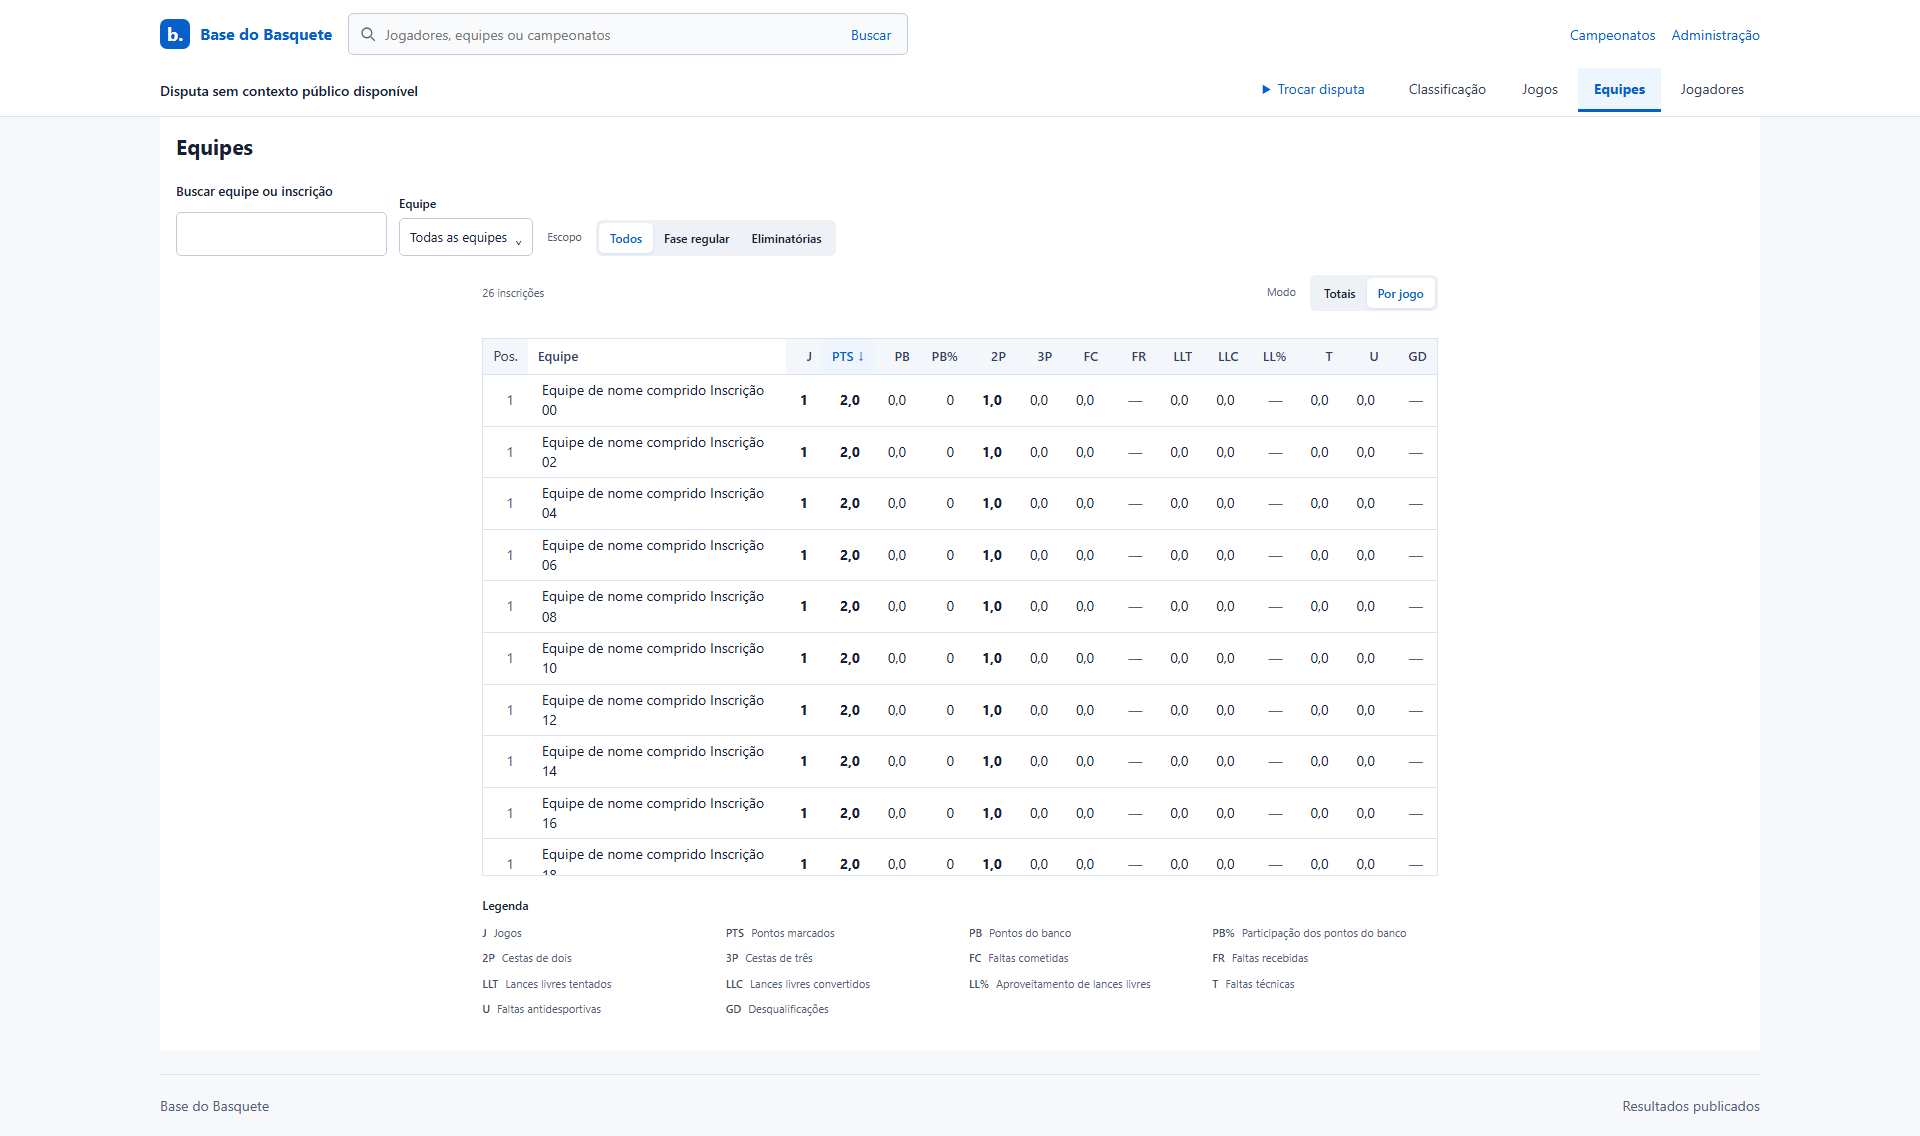
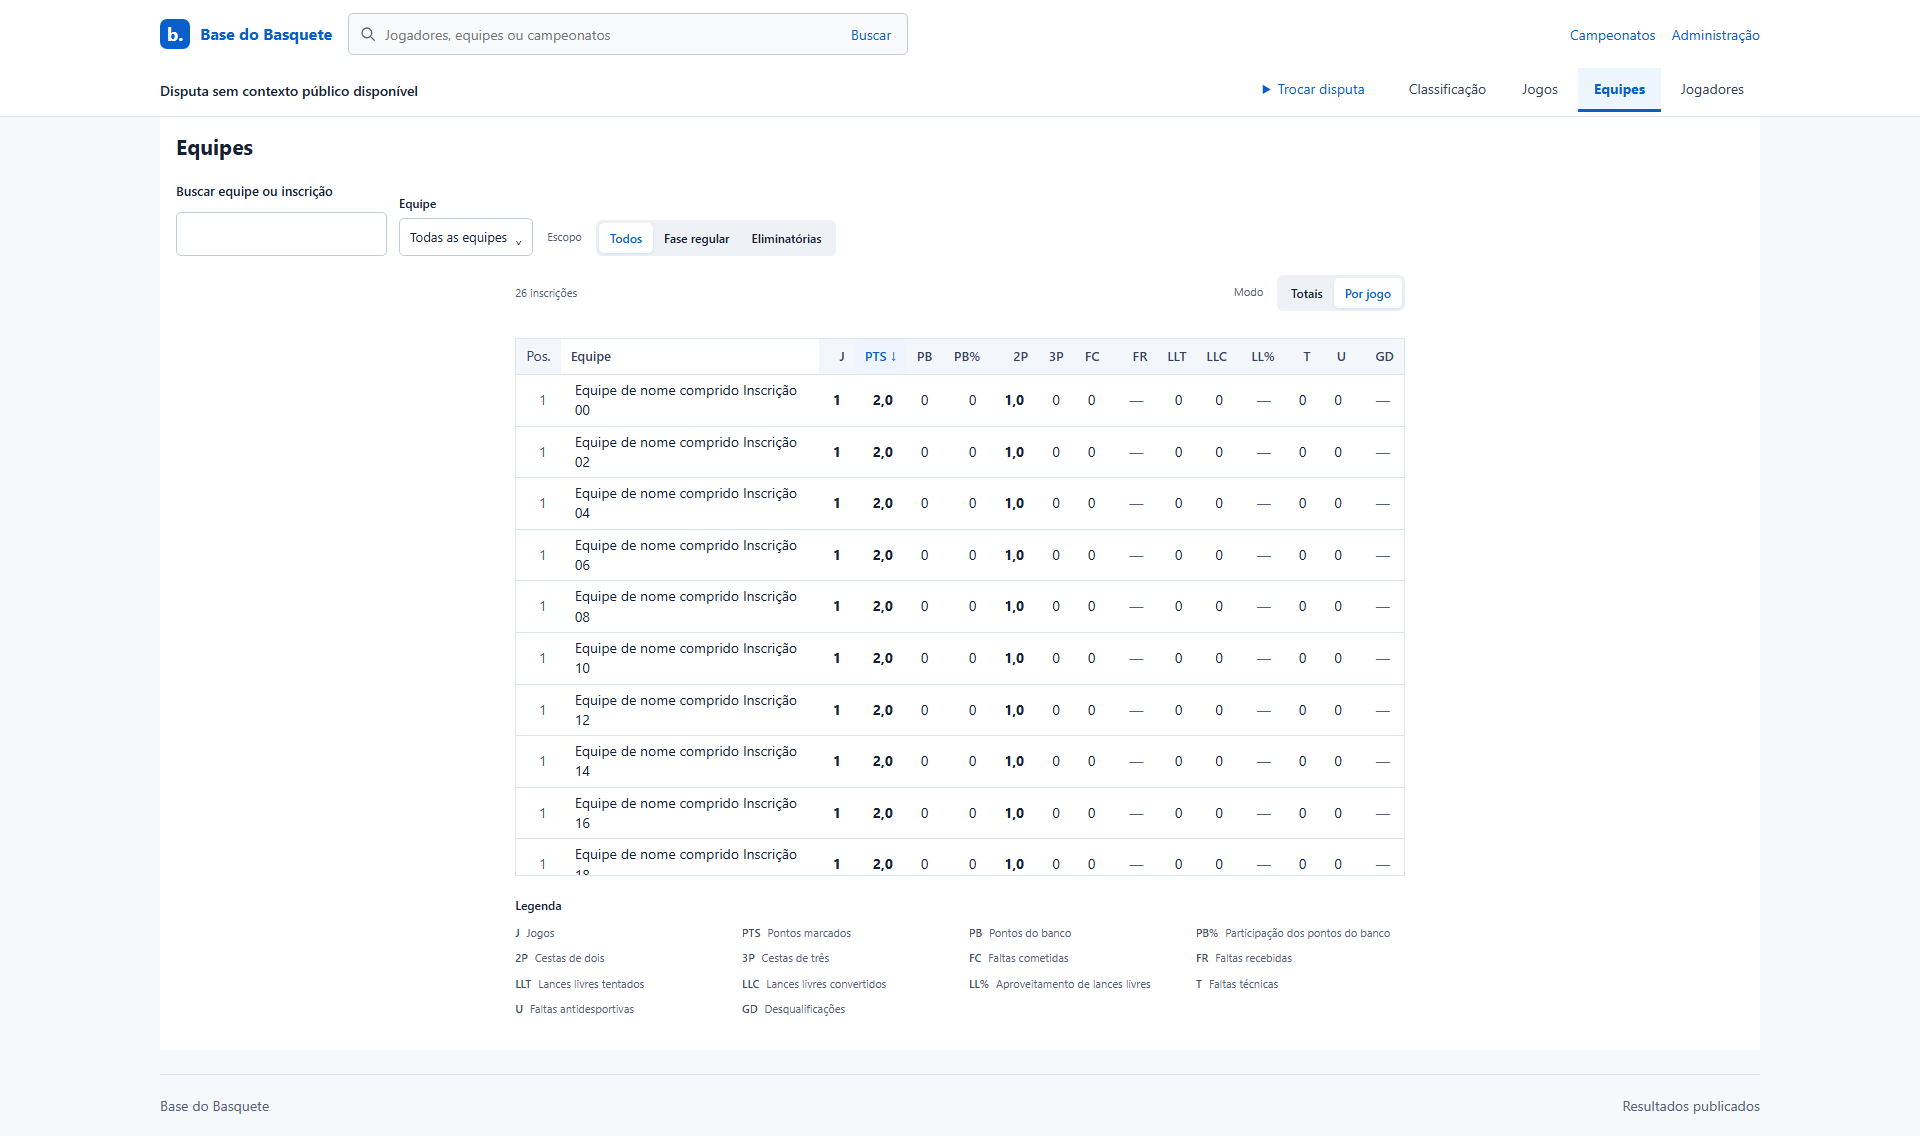
test: conclui revisão de Equipes em WebKit e documenta evidências

diff --git a/tests/team-refinement.spec.ts b/tests/team-refinement.spec.ts
@@ -147,6 +147,10 @@ test("Equipes: largura intrínseca, sticky, barra superior e bordas", async ({
       () => document.documentElement.scrollWidth <= innerWidth,
     ),
   ).toBe(true);
+  await page.screenshot({
+    path: `.preview-artifacts/equipes-zoom200-${info.project.name}.png`,
+    fullPage: true,
+  });
   await page.evaluate(() => {
     document.documentElement.style.zoom = "";
     document.documentElement.style.fontSize = "200%";
@@ -156,6 +160,10 @@ test("Equipes: largura intrínseca, sticky, barra superior e bordas", async ({
       () => document.documentElement.scrollWidth <= innerWidth,
     ),
   ).toBe(true);
+  await page.screenshot({
+    path: `.preview-artifacts/equipes-text200-${info.project.name}.png`,
+    fullPage: true,
+  });
 });
 
 test("Equipes: consulta explícita e retorno do perfil conservam seleção e rolagem", async ({
@@ -316,7 +324,8 @@ test("Equipes: armazenamento indisponível preserva consultas curtas e foco", as
   const table = page.getByRole("table", { name: "Estatísticas das equipes" });
   await expect(table.locator("tbody tr")).toHaveCount(2);
   const totals = page.getByRole("button", { name: "Totais", exact: true });
-  await totals.click();
+  await totals.focus();
+  await page.keyboard.press("Enter");
   await expect(totals).toBeFocused();
   await expect(page).toHaveURL(/mode=total/);
   await expect(page.getByRole("alert")).toHaveCount(0);

diff --git a/docs/PROGRESSO.md b/docs/PROGRESSO.md
@@ -1,29 +1,23 @@
 # Progresso atual
 
-Atualizado05/11/2026. Unidade ativa: **Equipes conforme Jogadores**, WIP na branch `codex/equipes-refinamento`, base inicial `76b90da`; worktree `C:/Users/12405304716/.codex/worktrees/equipes-refinamento/Base do Basquete-v1`. Último SHA material WIP publicado: `2853a653706b9ca18302a6a8b202ea39bd9d4acb` (branch remota confirmada, checkout limpo). Recuperar HEAD documental por Git. Sem PR criada, CI remota, integração ou deploy desta unidade até aqui.
+Atualizado05/11/2026. **Equipes conforme Jogadores**, branch `codex/equipes-refinamento`, [PR63](https://github.com/renato-lucindo/base-do-basquete-next/pull/63) única para main. Base inicial76b90da; main6d37e29 incorporada por merge explícito em6b41ac1. Último materialccc5de5; recuperar HEAD documental por Git. Checkout isolado `C:/Users/12405304716/.codex/worktrees/equipes-refinamento/Base do Basquete-v1`.
 
-## Implementação e evidências
+## Implementação e provas
 
-Contrato optativo pageSize=all/v2 separado do legado20, PB/PB%, médias uniformes/precisão integral, opções completas/hasBoxscore, seleção por registrationId, referência local e POST de consulta extensa. UI própria: busca com debounce/cancelamento, segmentados, tabela integral/legenda/máximos e CSS escopado de súmula. Jogadores, perfil, paginação/cálculos legados e ScrollableTable global preservados. [Spec/plano](superpowers/plans/2026-11-05-equipes-refinamento.md) e [relatório](design/VALIDACAO-EQUIPES-REFINAMENTO.md).
+Contrato pageSize=all/v2 separado do legado20, PB/PB%, médias uniformes/precisão integral, opções/hasBoxscore completos, seleção porregistrationId/referência local/POST de consulta extensa. UI com busca/debounce/cancelamento, segmentados, tabela integral/legenda/máximos, CSS só súmula. Perfil/Jogadores/paginação/cálculos legados e ScrollableTable global preservados. Falha de storage mantém escolha anterior e aviso; consultas curtas independem do storage. Zero conhecido apresenta0. [Spec/plano](superpowers/plans/2026-11-05-equipes-refinamento.md), [relatório/capturas](design/VALIDACAO-EQUIPES-REFINAMENTO.md).
 
-Gate `npm run gate` **exit0** (.equipes-gate.log):715unitários/149arquivos, política11, transporte11, banco descartável13, WorkerHTTP30, PDF1, lint/formato/tipos/build/fronteira/segredos. A parte unitária antecede a última correção pequena de identidade completa/validação/CSSmobile; focais posteriores48PASS e13testes sobrepostos de precisão/PB/fontes mistasPASS. Não repetir o gate por docs; conferir focais finais pertinentes e CI da composição.
+Gate consolidado local exit0:715unitários/149arquivos, política11, transporte11, banco descartável13, WorkerHTTP30, PDF1, lint/formato/tipos/build/fronteira/segredos (.equipes-gate.log). Ajustes finais focalmente conferidos:48unitáriosPASS,20ChromiumPASS+2de armazenamento cheioPASS, WebKitWindows12PASS+4finais de foco/bordasPASS (recortes sobrepostos). CI final da composição ainda necessária. CI inicial42130603266/6b41ac1 em andamento; não presumir sucesso. Logs de ENOSPC/temporários e expectativas antigas de foco Safari preservados no relatório, com correção e repetição sequencial aprovadas. Sem skips/retries/timeouts novos.
 
-Chromium ampliado56PASS/2falhasENOSPC ao gravar traces; os2afetados passaram sequencialmente (.equipes-disk-repeat.log). WebKitWindows2PASS (.equipes-webkit.log), sem confirmar overscroll nativo nessa plataforma nem celular físico. Capturas renovadas em docs/design/evidencias/equipes-refinamento. DiscoC quase cheio (~130MB); ENOENT temporário também desapareceu na repetição sequencial. Removido apenas map PDF gerado nesta execução; preservar arquivos alheios. Revisão autoral, sem parecer independente.
+Revisão autoral/ui-ux-pro-max/web-design-guidelines atualizada; sem alegar parecer independente ou celular físico. WebKitWindows não prova overscroll nativo; CI macOS inclui14cenários de Equipes. DiscoC cerca450MB livres, execuções locais sequenciais/traceoff; arquivos humanos/alheios preservados.
 
-Consulta histórica somente leitura:25jogos/50lados,34sem coletivo novo,15T/mínimoGD4,PBdisponível50. [Quadro por jogo/equipe](evidencias/2026-11-05-equipes-historico.md). Nenhum DDL/DML/rascunho na API/republicação. Originais congelados da versão publicada serviram apenas ao diagnóstico.
+Diagnóstico somente leitura:25jogos/50lados,34sem coletivo novo,15T/mínimoGD4,PBdisponível50. [Quadro](evidencias/2026-11-05-equipes-historico.md). Originais congelados publicados apenas diagnóstico; sem rascunhos na API, DDL/DML ou republicação.
 
-## Git e serviços
+## Serviços, continuidade e próximo passo
 
-Origin/main avançou externamente para `6d37e29` (PR60 documental); incorporar main vigente por merge explícito antes da entrega. PR61 é outra unidade, com retomada para o mesmo horário e alvoUIUX: conferir estado real/coordenação antes de publicar, sem empilhar branches nem substituir fonte mais nova por build antigo. Checkout humano sync/trabalho-casa e CONTRIBUTING/skills locais alheios, outros worktrees e automações preservados.
+UIUX observado por API:deployment79cd9d59-cc65-4437-b44f-55a1f2f859b5/version82ee666f-3ebe-4d0c-b931-0fe020b2c8d3/source76b90da. Principal00dffb6b-1d5c-4433-9214-768013ed6277/version139410ce-a8d6-4710-9b94-e1b1222cd3dc. Config/Access/segredos/banco preservados. ConfigUIUX existente em `C:/Users/12405304716/.codex/worktrees/reforma-uiux/.preview-artifacts/uiux-preview/wrangler.json`. Sem deploy desta unidade até aqui.
 
-Última leitura remotaUIUX:deployment `79cd9d59-cc65-4437-b44f-55a1f2f859b5`, versão `82ee666f-3ebe-4d0c-b931-0fe020b2c8d3`, source PR59/76b90da. Principal deployment `00dffb6b-1d5c-4433-9214-768013ed6277`, versão `139410ce-a8d6-4710-9b94-e1b1222cd3dc`. Nenhuma alteração em serviços nesta unidade. ConfigUIUX existente em `C:/Users/12405304716/.codex/worktrees/reforma-uiux/.preview-artifacts/uiux-preview/wrangler.json`; não usar uploader canônico.
+PR61 independente permanece draft/idle, CI42128700378/ab3c461SUCCESS; não integrada por este agente. Conferir main/serviço novamente antes do merge/deploy; não empilhar61 nem publicar build antigo sobre mais novo. Checkout humano sync/trabalho-casa/CONTRIBUTING/skills locais e outrosworktrees preservados.
 
-## Pausa e próximo passo
+Retomada manual autorizada em05/11, cota inicial99%5h/22%semanal. Automação `retomar-refinamento-de-equipes` permaneceACTIVE para06/11 00:04:43 America/Sao_Paulo; pausar ao concluir, sem duplicatas/créditos/resets. Gatilho15%real conforme CONTRIBUTING.
 
-Cota real **13%5h/30%semanal**, reset `1793934163`. Retomada oficial `retomar-refinamento-de-equipes` **ACTIVE**, confirmada por view e arquivo da automação para este chat: **06/11/2026 às00:04:43 America/Sao_Paulo** (03:04:43UTC), reset+2min. Não usar créditos/resetmanual. Não iniciar outro gate nesta janela.
-
-Ao retomar:medir cota; conferir Git/PRs/CI/main/serviço; concluir revisão e focais pendentes; uma única PR com CI; merge commit e CI integrada; build fresco limpo e deploy exclusivamente base-do-basquete-next-uiux, seguido de smoke/fonte/configuração. Autorizações específicas constam no pedido; não inferir deployprincipal, Access/segredos/DB/DML. [Checkpoint anterior](../historico/progresso/2026-11-05-antes-equipes-refinamento.md).
-
-## Retomada em05/11/2026
-
-Cota real99%5h/22%semanal no início da retomada. Main6d37e29 incorporada por merge explícito; contexto documental da PR60 [arquivado](../historico/progresso/2026-11-05-main-pr60-na-retomada-equipes.md). Correção final ccc5de5: consultas curtas não dependem do armazenamento; seleção extensa com falha de storage conserva escolha anterior e alerta, zero comprovado aparece0. Focais48unitáriosPASS;20browsersPASS mais2de armazenamento cheioPASS após corrigir o teste para clicar sem exigir desmarcação rejeitada. Tipos/lint/formato/diffPASS; WebKit completo focal/CI remota pendentes. PR61 está separada e idle, CI42128700378SUCCESS/ab3c461, sem integração por este agente. Nenhum deploy ou dado alterado.
+Próximo:publicar último teste/documentação na mesma PR63, aguardar CI completa, revisar checks/conversas/diff, merge commit autorizado e CI integrada. Depois build fresco limpo do SHAintegrado e deploy exclusivamente base-do-basquete-next-uiux com smoke/fonte/configuração. Nenhum deployprincipal/Access/segredo/DDL/DML ou republicação autorizados por inferência. [Checkpoint anterior](../historico/progresso/2026-11-05-equipes-apos-retomada.md).

diff --git a/historico/progresso/2026-11-05-equipes-apos-retomada.md b/historico/progresso/2026-11-05-equipes-apos-retomada.md
@@ -1,0 +1,29 @@
+# Progresso atual
+
+Atualizado05/11/2026. Unidade ativa: **Equipes conforme Jogadores**, WIP na branch `codex/equipes-refinamento`, base inicial `76b90da`; worktree `C:/Users/12405304716/.codex/worktrees/equipes-refinamento/Base do Basquete-v1`. Último SHA material WIP publicado: `2853a653706b9ca18302a6a8b202ea39bd9d4acb` (branch remota confirmada, checkout limpo). Recuperar HEAD documental por Git. Sem PR criada, CI remota, integração ou deploy desta unidade até aqui.
+
+## Implementação e evidências
+
+Contrato optativo pageSize=all/v2 separado do legado20, PB/PB%, médias uniformes/precisão integral, opções completas/hasBoxscore, seleção por registrationId, referência local e POST de consulta extensa. UI própria: busca com debounce/cancelamento, segmentados, tabela integral/legenda/máximos e CSS escopado de súmula. Jogadores, perfil, paginação/cálculos legados e ScrollableTable global preservados. [Spec/plano](superpowers/plans/2026-11-05-equipes-refinamento.md) e [relatório](design/VALIDACAO-EQUIPES-REFINAMENTO.md).
+
+Gate `npm run gate` **exit0** (.equipes-gate.log):715unitários/149arquivos, política11, transporte11, banco descartável13, WorkerHTTP30, PDF1, lint/formato/tipos/build/fronteira/segredos. A parte unitária antecede a última correção pequena de identidade completa/validação/CSSmobile; focais posteriores48PASS e13testes sobrepostos de precisão/PB/fontes mistasPASS. Não repetir o gate por docs; conferir focais finais pertinentes e CI da composição.
+
+Chromium ampliado56PASS/2falhasENOSPC ao gravar traces; os2afetados passaram sequencialmente (.equipes-disk-repeat.log). WebKitWindows2PASS (.equipes-webkit.log), sem confirmar overscroll nativo nessa plataforma nem celular físico. Capturas renovadas em docs/design/evidencias/equipes-refinamento. DiscoC quase cheio (~130MB); ENOENT temporário também desapareceu na repetição sequencial. Removido apenas map PDF gerado nesta execução; preservar arquivos alheios. Revisão autoral, sem parecer independente.
+
+Consulta histórica somente leitura:25jogos/50lados,34sem coletivo novo,15T/mínimoGD4,PBdisponível50. [Quadro por jogo/equipe](evidencias/2026-11-05-equipes-historico.md). Nenhum DDL/DML/rascunho na API/republicação. Originais congelados da versão publicada serviram apenas ao diagnóstico.
+
+## Git e serviços
+
+Origin/main avançou externamente para `6d37e29` (PR60 documental); incorporar main vigente por merge explícito antes da entrega. PR61 é outra unidade, com retomada para o mesmo horário e alvoUIUX: conferir estado real/coordenação antes de publicar, sem empilhar branches nem substituir fonte mais nova por build antigo. Checkout humano sync/trabalho-casa e CONTRIBUTING/skills locais alheios, outros worktrees e automações preservados.
+
+Última leitura remotaUIUX:deployment `79cd9d59-cc65-4437-b44f-55a1f2f859b5`, versão `82ee666f-3ebe-4d0c-b931-0fe020b2c8d3`, source PR59/76b90da. Principal deployment `00dffb6b-1d5c-4433-9214-768013ed6277`, versão `139410ce-a8d6-4710-9b94-e1b1222cd3dc`. Nenhuma alteração em serviços nesta unidade. ConfigUIUX existente em `C:/Users/12405304716/.codex/worktrees/reforma-uiux/.preview-artifacts/uiux-preview/wrangler.json`; não usar uploader canônico.
+
+## Pausa e próximo passo
+
+Cota real **13%5h/30%semanal**, reset `1793934163`. Retomada oficial `retomar-refinamento-de-equipes` **ACTIVE**, confirmada por view e arquivo da automação para este chat: **06/11/2026 às00:04:43 America/Sao_Paulo** (03:04:43UTC), reset+2min. Não usar créditos/resetmanual. Não iniciar outro gate nesta janela.
+
+Ao retomar:medir cota; conferir Git/PRs/CI/main/serviço; concluir revisão e focais pendentes; uma única PR com CI; merge commit e CI integrada; build fresco limpo e deploy exclusivamente base-do-basquete-next-uiux, seguido de smoke/fonte/configuração. Autorizações específicas constam no pedido; não inferir deployprincipal, Access/segredos/DB/DML. [Checkpoint anterior](../historico/progresso/2026-11-05-antes-equipes-refinamento.md).
+
+## Retomada em05/11/2026
+
+Cota real99%5h/22%semanal no início da retomada. Main6d37e29 incorporada por merge explícito; contexto documental da PR60 [arquivado](../historico/progresso/2026-11-05-main-pr60-na-retomada-equipes.md). Correção final ccc5de5: consultas curtas não dependem do armazenamento; seleção extensa com falha de storage conserva escolha anterior e alerta, zero comprovado aparece0. Focais48unitáriosPASS;20browsersPASS mais2de armazenamento cheioPASS após corrigir o teste para clicar sem exigir desmarcação rejeitada. Tipos/lint/formato/diffPASS; WebKit completo focal/CI remota pendentes. PR61 está separada e idle, CI42128700378SUCCESS/ab3c461, sem integração por este agente. Nenhum deploy ou dado alterado.

diff --git a/docs/design/VALIDACAO-EQUIPES-REFINAMENTO.md b/docs/design/VALIDACAO-EQUIPES-REFINAMENTO.md
@@ -45,3 +45,21 @@ Rodada ampliada:56cenários Chromium PASS e2falhas por ENOSPC na gravação de t
 WebKit Windows:2cenários geométricos desktop/mobile PASS, incluindo sticky/sincronização/1050–1051/zoom e texto200. Não confirma overscroll nativo em Windows nem celular físico. A CI macOS inclui agora o teste de Equipes. Capturas mobile renovadas depois do ajuste de largura do nome; restantes preservadas.
 
 Pausa real em13% restante5h, reset1793934163. Retomada automática oficial `retomar-refinamento-de-equipes` ACTIVE, confirmada por view e arquivo da automação para este chat:06/11/2026 às00:04:43 America/Sao_Paulo (03:04:43UTC), reset+2min. Não há PR criada, CI remota, merge ou deploy desta unidade. Não iniciar outro gate nesta janela. Próximo passo:reconciliar main/PR61/serviço, fechar focais pendentes de revisão/formato, abrir e validar a única PR, integrar e publicar somente o Worker autorizado.
+
+## Fechamento da revisão — PR63
+
+Branch material `ccc5de5`, main documental6d37e29 incorporada em `6b41ac1`; [PR63](https://github.com/renato-lucindo/base-do-basquete-next/pull/63), sem pilha. Esta revisão mantém os limites estatísticos e operacionais acima. Zero comprovado apresenta **0** também em Por jogo, sem destaque. Mais opções do boxscore conserva Colunas/Ordenar por/Direção; PB/PB% aparecem uma única vez no catálogo.
+
+Achados do autor corrigidos e verificados:
+
+- `src/team-statistics/list-navigation.ts:12`: argumento padrão acessava sessionStorage mesmo em consultas curtas. Teste RED→GREEN; acesso agora só quando há referência local.
+- `src/team-statistics/list-page.tsx:103`: falha de armazenamento não pode aplicar escolha que o retorno não preserva. Seleção anterior mantida, aviso explícito; em abertura externa excepcional sem storage, perfis ficam indisponíveis até reduzir a seleção. Testes de armazenamento bloqueado/cheio desktop e celular PASS.
+- `src/team-statistics/list-table.tsx:109`: zero conhecido usa0 na apresentação, mantendo médias positivas com uma casa. Browser RED→GREEN.
+
+Revisão web-design-guidelines refeita pela fonte atual em05/11/2026: sem novos achados pendentes nos arquivos alterados. ui-ux-pro-max aplicado ao foco/filtragem. Recomendações genéricas de virtualização e alterações globais de touch-action cedem ao contrato explícito de tabela integral/gestos nativos e ao limite1000. Revisão autoral, sem parecer independente.
+
+Resultados finais locais incrementais:48unitários de Equipes PASS;20cenários Chromium PASS na rodada +2de armazenamento cheio PASS após corrigir a interação do teste (click, pois a aplicação rejeita a desmarcação quando não consegue guardar). WebKitWindows12PASS e2expectativas inválidas de foco após clique; Safari não dá foco de teclado ao botão por clique. O teste passa a focar/ativar por Enter e comprova a manutenção do foco:4cenários finais de armazenamento/bordas PASS. Os12anteriores são de produto inalterado, sem repetir por docs. Nenhum retry/skip/timeout adicional. CI macOS continua obrigatória para overscroll nativo.
+
+Capturas da composição final renovadas: desktop1366/1920,390/320, [zoom200%](evidencias/equipes-refinamento/zoom-200.png) e [texto200%](evidencias/equipes-refinamento/texto-200.png). Sem transbordamento da página; PTS/J acessíveis no celular, nomes com quebra controlada, Pos. vertical e nome horizontal fixos, scrollbars sincronizadas, blocos intrínsecos em1051+ e altura70vh. Barra superior reservada/oculta sem overflow, visível apenas quando há deslocamento horizontal. Preservada inércia/gestos/zoom nativos, sem handlers preventDefault para toque/roda. Testes não substituem celular físico.
+
+CI inicial da PR em42130603266 sobre6b41ac1 não valida os ajustes posteriores no próprio teste/relatório; consultar o último SHA. Integração e deploy ainda não executados. Configurações UIUX/principal e Access comparadas somente em leitura, sem alteração. Estado atual no checkpoint.

diff --git a/docs/superpowers/plans/2026-11-05-equipes-refinamento.md b/docs/superpowers/plans/2026-11-05-equipes-refinamento.md
@@ -22,3 +22,7 @@ Contratos/cálculos, navegação, interface e diagnóstico implementados e testa
 Cota real13%5h/30%semanal, reset1793934163. Retomada oficial `retomar-refinamento-de-equipes` ACTIVE confirmada para06/11/2026 00:04:43 America/Sao_Paulo, reset+2min. Mesma branch/worktree/unidade. PR61 de outro chat tem automação para o mesmo instante e o mesmo alvoUIUX; conferir main/deployment antes de publicar e não substituir build mais novo. Não repetir gates inalterados. DiscoC ~130MB livre; testes sequenciais para evitar novos traces grandes.
 
 WIP material publicado e conferido: `2853a653706b9ca18302a6a8b202ea39bd9d4acb`. Checkout limpo depois do push. Sem PR/CI remota para respeitar pausa antes de novo gate.
+
+## Revisão final na PR63
+
+Main6d37e29 incorporada em6b41ac1, PR63 única. Focais finais48unitários/20Chromium+2storagecheio/12WebKit+4finais de foco e bordasPASS, conforme relatório; não somar recortes sobrepostos. Storage só é necessário para referência longa; falha mantém escolha anterior e avisa. Zero conhecido usa0. Revisão de skills concluída; CI da PR/integrada e deploy/smoke ainda pendentes. Atualizar evidências/estado final na mesma unidade.
